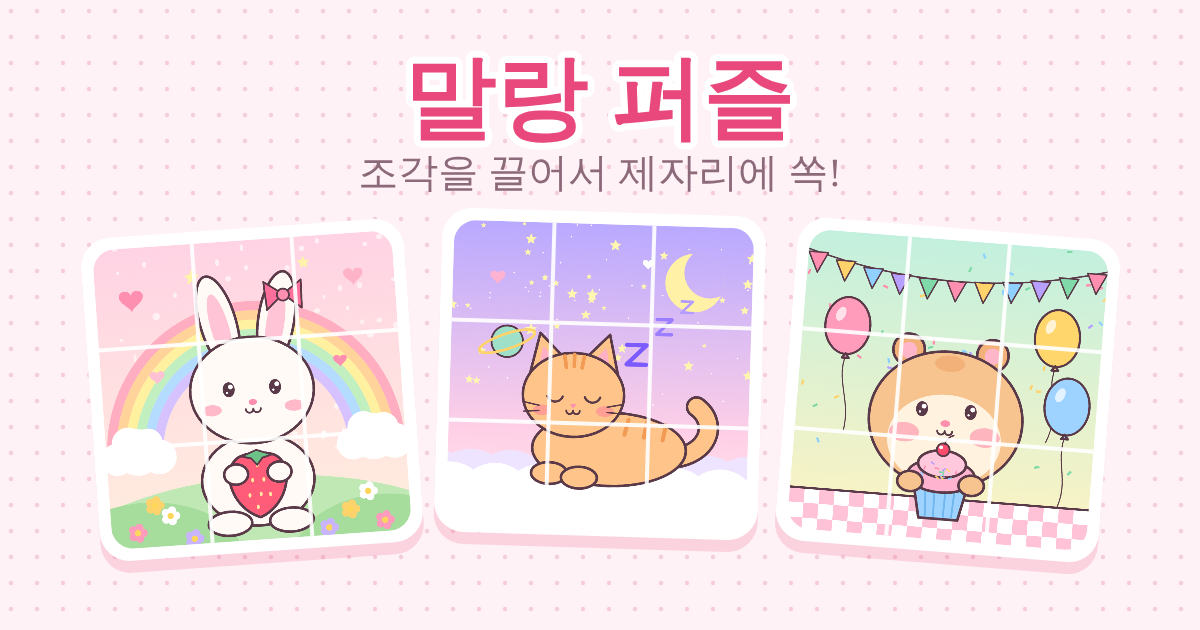
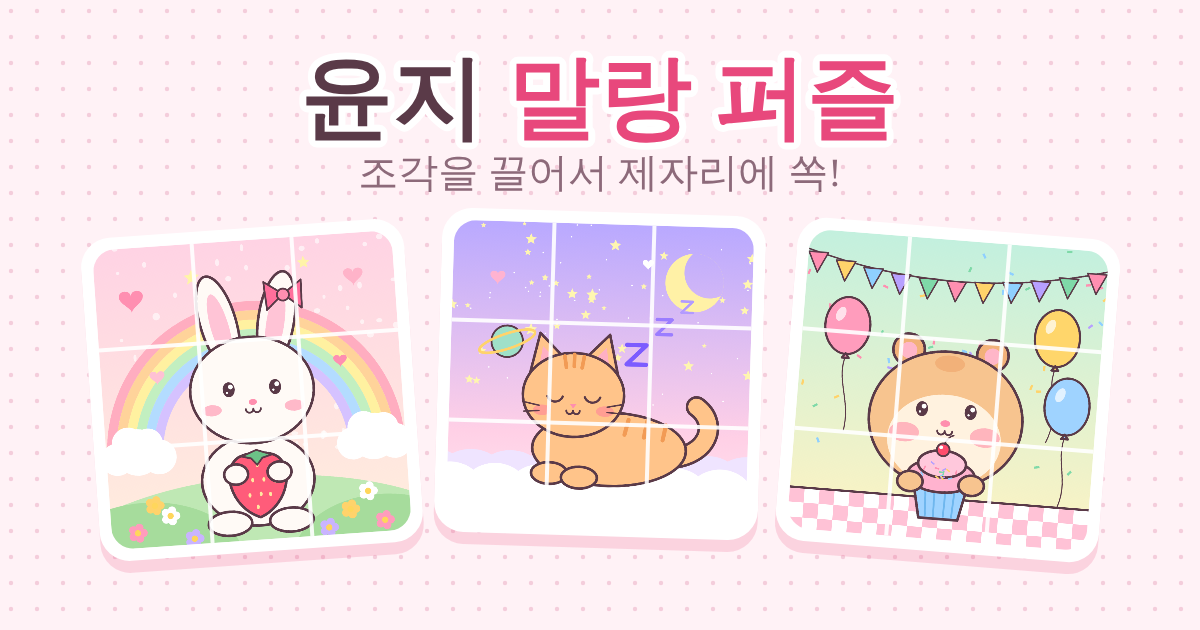
제목을 '윤지 말랑 퍼즐'로 변경
Claude-Session: https://claude.ai/code/session_014tHS2XNrFXh5GkUKvYaJTK

Changed region(s): [[0.2467, 0.0905, 0.74, 0.2413]]

diff --git a/index.html b/index.html
@@ -6,8 +6,8 @@
 <meta name="description" content="딸기 토끼, 구름 고양이, 생일 햄찌! 귀여운 그림 조각을 끌어서 맞추는 퍼즐 게임">
 <meta property="og:type" content="website">
 <meta property="og:url" content="https://parksunghyon.github.io/mallang-puzzle/">
-<meta property="og:site_name" content="말랑 퍼즐">
-<meta property="og:title" content="말랑 퍼즐 🧩 같이 맞춰요!">
+<meta property="og:site_name" content="윤지 말랑 퍼즐">
+<meta property="og:title" content="윤지 말랑 퍼즐 🧩 같이 맞춰요!">
 <meta property="og:description" content="딸기 토끼, 구름 고양이, 생일 햄찌! 귀여운 그림 조각을 끌어서 맞추는 퍼즐 게임">
 <meta property="og:image" content="https://parksunghyon.github.io/mallang-puzzle/og-image.png">
 <meta property="og:image:width" content="1200">
@@ -16,7 +16,7 @@
 <meta name="twitter:image" content="https://parksunghyon.github.io/mallang-puzzle/og-image.png">
 <link rel="icon" type="image/png" href="icon.png">
 <link rel="apple-touch-icon" href="icon.png">
-<title>말랑 퍼즐</title>
+<title>윤지 말랑 퍼즐</title>
 <meta name="claude:viewport-fit-sides" content="cover">
 <meta name="theme-color" content="#fff2f6">
 <link rel="preconnect" href="https://fonts.googleapis.com">
@@ -181,7 +181,7 @@ button:focus-visible{outline:3px solid var(--berry);outline-offset:2px}
 <main class="app" id="menu">
   <header class="top">
     <div class="brand">
-      <h1>말랑 <span>퍼즐</span></h1>
+      <h1><span>윤지</span> 말랑 퍼즐</h1>
       <p>조각을 끌어서 제자리에 쏙!</p>
     </div>
     <button class="icon-btn" id="soundBtn" aria-label="소리 끄기" aria-pressed="true">
@@ -499,7 +499,7 @@ $("shareUrl").value=SHARE_URL;
 let toastT=0;
 function toast(msg){ const t=$("toast"); t.textContent=msg; t.hidden=false; clearTimeout(toastT); toastT=setTimeout(()=>t.hidden=true,2600); }
 $("shareBtn").addEventListener("click",()=>{
-  const text="말랑 퍼즐 같이 해요! 귀여운 그림 조각 맞추기 "+SHARE_URL;
+  const text="윤지 말랑 퍼즐 같이 해요! 귀여운 그림 조각 맞추기 "+SHARE_URL;
   const fallback=()=>{ const i=$("shareUrl"); i.focus(); i.select(); toast("링크를 길게 눌러 복사해 주세요"); };
   try{
     navigator.clipboard.writeText(text).then(()=>toast("복사했어요! 카톡 대화방에 붙여넣기 하세요"),fallback);
